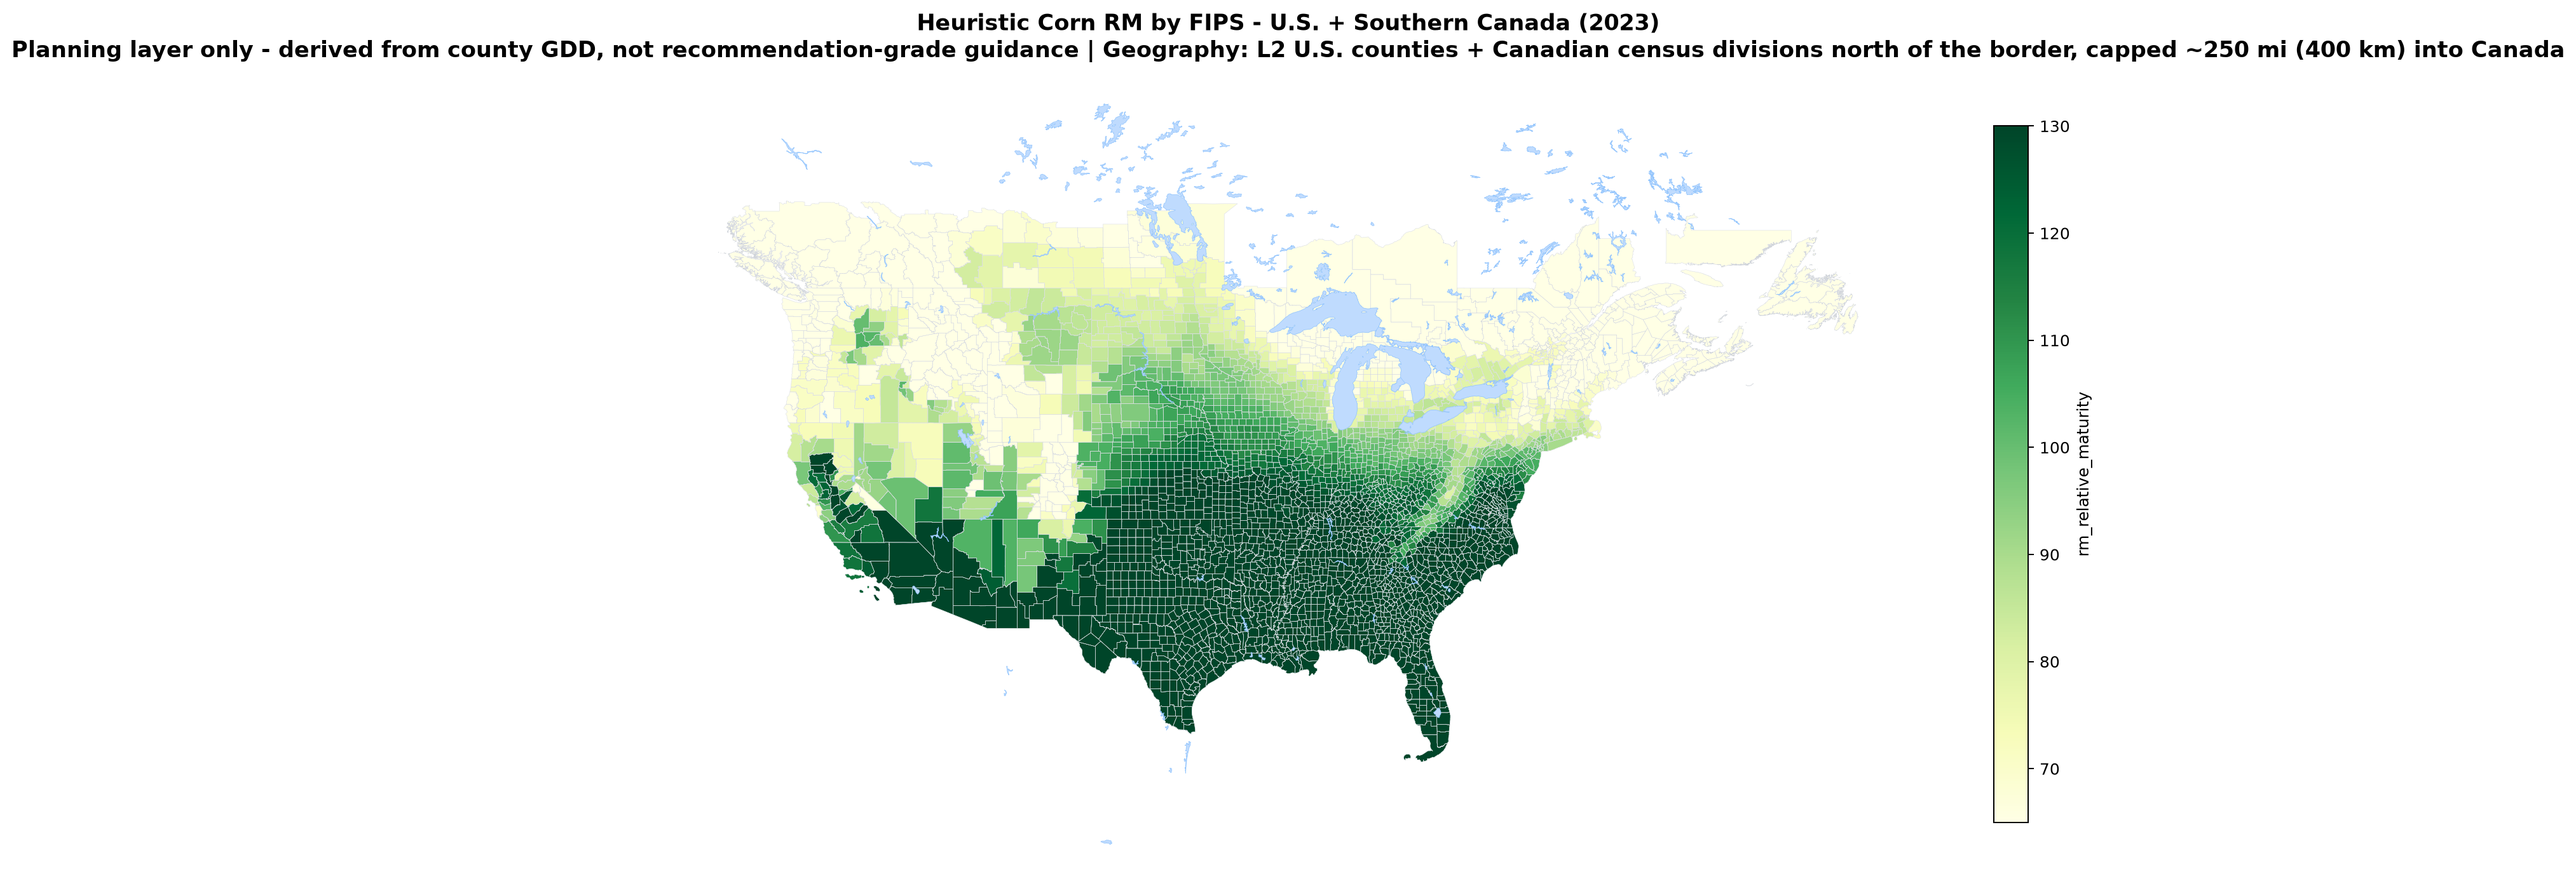
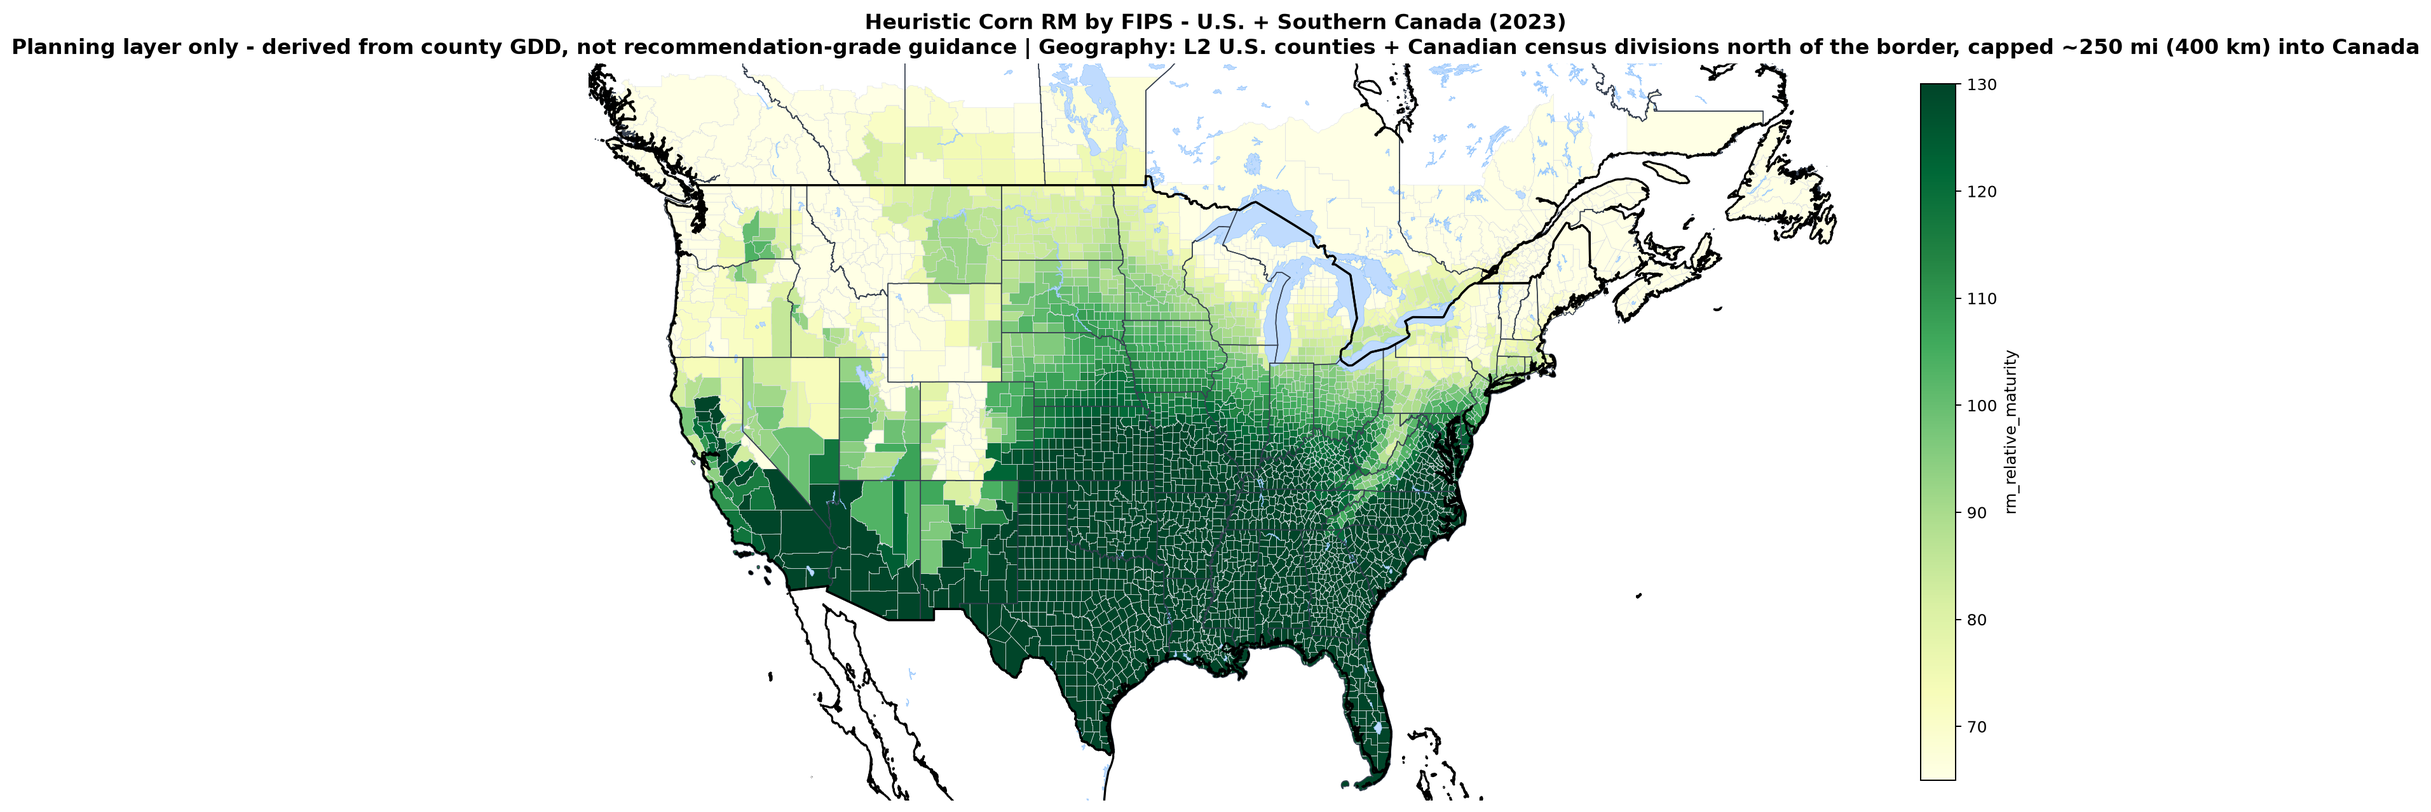
Canada polygon soil figure, Brazil global-floor stack, maturity borders, NDVI-complete poster
- generate_ssurgo_maps.py: prefer cached survey polygons (national equivalents
  in the same schema), categorical tab20 palette, dynamic survey-name titles
  -> Ontario Detailed Soil Survey renders as polygons, no USDA query
- generate_maturity_maps.py: L0 country border (black) + L1 state/province
  borders (grey) via .cx extent clip (GeoDataFrame.clip has no bbox kwarg),
  OGR_GEOJSON_MAX_OBJ_SIZE=0 for Natural Earth, title wrap to kill side gutters
- render_field_maps.py: terrain panel titles read selected_source from the DEM
  manifest instead of a hard-coded provider string
- staged: on-r1 ON-DSS polygon figure, br-r1 full stack + SoilGrids grid,
  re-rendered field maps (4), NA/Canada/US choropleths (borders),
  NDVI-complete field report, au Narrabri panels at 768 px (coverage hole closed)
- README: field stack gains Brazil (global-floor demo), soil tiers now
  US/CA polygons + AU atlas + global SoilGrids floor

Changed region(s): [[0.0, 0.0, 0.9956, 0.9758], [0.3422, 0.8233, 0.3733, 0.9758]]

diff --git a/my-farm-advisor/data-pipeline/src/scripts/reporting/generate_ssurgo_maps.py b/my-farm-advisor/data-pipeline/src/scripts/reporting/generate_ssurgo_maps.py
@@ -424,7 +424,10 @@ def _render_map(
     if not plot_source.empty:
         plot_target = plot_source.to_crs(epsg=3857) if use_basemap else plot_source
         max_class = int(pd.Series(plot_source["class_id"]).max()) if not plot_source.empty else 0
-        colors = plt.get_cmap("YlGn")(np.linspace(0.35, 0.85, max(1, max_class + 1)))
+        # Categorical palette: adjacent soil components must be tellable apart
+        # at a glance — a continuous green ramp fails the comparator test.
+        _cmap = plt.get_cmap("tab20")
+        colors = [_cmap(i % 20) for i in range(max(1, max_class + 1))]
         legend_elements: list[object] = [
             Line2D([0], [0], color="darkgreen", linewidth=3, label="Field Boundary")
         ]
@@ -436,7 +439,7 @@ def _render_map(
                 ax=ax,
                 color=colors[int(class_id)],
                 alpha=0.62,
-                edgecolor="#166534",
+                edgecolor="#1f2937",
                 linewidth=1.35,
             )
             legend_elements.append(
@@ -469,6 +472,19 @@ def _render_map(
     plt.close(fig)
 
 
+
+def _survey_label(ssurgo_gdf: gpd.GeoDataFrame) -> str:
+    """Name the survey the polygons actually came from (SSURGO, Ontario
+    Detailed Soil Survey, ...) instead of hard-coding SSURGO everywhere."""
+    if ssurgo_gdf is not None and "soil_source" in getattr(ssurgo_gdf, "columns", []):
+        vals = [v for v in ssurgo_gdf["soil_source"].dropna().unique() if isinstance(v, str)]
+        if vals:
+            v = vals[0]
+            if v == "usda-sda":
+                return "SSURGO"
+            return " ".join(w.capitalize() for w in v.replace("_", " ").replace("-", " ").split())
+    return "SSURGO"
+
 def render_ssurgo_component_map(
     field_gdf: gpd.GeoDataFrame,
     ssurgo_gdf: gpd.GeoDataFrame,
@@ -495,7 +511,7 @@ def render_ssurgo_component_map(
         field_gdf=field_gdf,
         plot_source=plot_source,
         output_path=output_path,
-        title=f"Field {field_short} - SSURGO Predominant Component\n({mukey_count} MUKEYs)",
+        title=f"Field {field_short} - {_survey_label(ssurgo_gdf)} Predominant Component\n({mukey_count} MUKEYs)",
         legend_title="Predominant component",
         label_builder=_label,
     )
@@ -572,7 +588,14 @@ def main() -> None:
 
         field_single = fields.iloc[[idx - 1]].copy()
 
-        field_ssurgo = get_ssurgo_polygons_with_soil_data(field_single, field_id)
+        # Cached survey polygons (SSURGO or a national equivalent ingested in
+        # the same schema, e.g. the Ontario Detailed Soil Survey) win over a
+        # fresh query — this is what lets Canada render without SDA.
+        cached = field_soil_polygon_path(_DEFAULT_GROWER, _DEFAULT_FARM, field_slug)
+        if cached.exists():
+            field_ssurgo = gpd.read_file(cached)
+        else:
+            field_ssurgo = get_ssurgo_polygons_with_soil_data(field_single, field_id)
 
         component_output = field_feature_path(
             _DEFAULT_GROWER, _DEFAULT_FARM, field_slug, "soil_component_map.png"

diff --git a/my-farm-advisor/data-pipeline/src/scripts/reporting/generate_maturity_maps.py b/my-farm-advisor/data-pipeline/src/scripts/reporting/generate_maturity_maps.py
@@ -71,7 +71,46 @@ def _render_map(
             lakes.plot(ax=ax, facecolor="#bfdbfe", edgecolor="#93c5fd", linewidth=0.3, zorder=3)
     except Exception:
         pass
-    ax.set_title(f"{title}\n{subtitle}", fontsize=14, fontweight="bold")
+    # Country (L0) and state/province (L1) borders, clipped to the plotted
+    # extent, so a multi-country choropleth says what is US and what is
+    # Canada without needing a basemap.
+    minx, miny, maxx, maxy = counties.total_bounds
+    vis_bbox = (minx - 1, miny - 1, maxx + 1, maxy + 1)
+    try:
+        from paths import shared_geoadmin_dir
+
+        # Natural Earth country polygons exceed pyogrio's default GeoJSON
+        # object size cap; lift it for these reads.
+        os.environ.setdefault("OGR_GEOJSON_MAX_OBJ_SIZE", "0")
+        gd_root = shared_geoadmin_dir()
+        for rel, lw, color in (
+            ("l1_states/states_usa.geojson", 0.6, "#374151"),
+            ("l1_states/states_canada.geojson", 0.6, "#374151"),
+            ("l0_countries/countries.geojson", 1.3, "#000000"),
+        ):
+            border_path = gd_root / rel
+            if not border_path.exists():
+                continue
+            _b = gpd.read_file(border_path).to_crs("EPSG:4326")
+            lines = _b.cx[vis_bbox[0]:vis_bbox[2], vis_bbox[1]:vis_bbox[3]]
+            if not lines.empty:
+                lines.boundary.plot(ax=ax, color=color, linewidth=lw, zorder=4)
+        ax.set_xlim(minx - 0.4, maxx + 0.4)
+        ax.set_ylim(miny - 0.4, maxy + 0.4)
+    except Exception:  # noqa: BLE001 — borders are cosmetic
+        pass
+    # Keep the title narrower than the map so the tight-bbox crop does not
+    # stretch the canvas into white side margins.
+    import textwrap
+
+    ax.set_title(
+        "\n".join(textwrap.wrap(title, 58)) + "\n" + subtitle,
+        fontsize=13,
+        fontweight="bold",
+    )
+    ax.tick_params(labelbottom=False, labelleft=False, bottom=False, left=False)
+    for s in ax.spines.values():
+        s.set_visible(False)
     ax.axis("off")
     fig.tight_layout()
     fig.savefig(output_path, dpi=180, bbox_inches="tight")

diff --git a/my-farm-advisor/data-pipeline/src/scripts/render_field_maps.py b/my-farm-advisor/data-pipeline/src/scripts/render_field_maps.py
@@ -123,6 +123,24 @@ def hillshade(dem: np.ndarray, dx: float = 30.0, az=315.0, alt=45.0) -> np.ndarr
     return np.clip(hs, 0, 1)
 
 
+
+def _dem_source_label(field_dir: Path) -> str:
+    """Name the DEM the resolver actually selected (recorded in the terrain
+    manifest) instead of a hard-coded provider string."""
+    try:
+        import json
+
+        manifest = field_dir / "manifests" / "dem_terrain_manifest.json"
+        if not manifest.exists():
+            return "DEM"
+        sel = json.loads(manifest.read_text()).get("selected_source") or {}
+        name = str(sel.get("source_name") or sel.get("adapter_name") or "DEM")
+        res = sel.get("resolution_m")
+        return f"{name} ({res:g} m)" if isinstance(res, (int, float)) else name
+    except Exception:  # noqa: BLE001 — cosmetic label
+        return "DEM"
+
+
 def panel_terrain(ax, field_dir: Path, boundary):
     dems = sorted(field_dir.glob("terrain/dem/dem_clipped.tif"))
     if not dems:
@@ -139,7 +157,7 @@ def panel_terrain(ax, field_dir: Path, boundary):
     cs = ax.contour(xs, ys, out, levels=levels, colors="0.25", linewidths=0.5, alpha=0.6)
     ax.clabel(cs, fmt="%.0f m", fontsize=6)
     draw_polys(ax, boundary)
-    ax.set_title("Terrain — hillshade + elevation contours (Copernicus DEM 30 m)", fontsize=8)
+    ax.set_title(f"Terrain — hillshade + elevation contours ({_dem_source_label(field_dir)})", fontsize=8)
     return True
 
 

diff --git a/README.md b/README.md
@@ -62,24 +62,25 @@ is the product; the download is just step one.
 ### Farm data stacks — terrain, soil, and crop type for one field boundary
 
 Rendered by [`render_field_maps.py`](my-farm-advisor/data-pipeline/src/scripts/render_field_maps.py)
-from a demo grower's runtime data: Copernicus DEM hillshade, national soil
-surveys, and per-year WorldCereal crop inference, co-registered to the field
-boundary (red).
+from a demo grower's runtime data: auto-resolved DEM hillshade (1 m LiDAR
+where the resolver finds it, global 30 m elsewhere — each panel names the
+source the manifest actually recorded), national soil surveys, and per-year
+WorldCereal crop inference, co-registered to the field boundary (red).
 
-| Iowa, US — 172 ha | Ontario, CA — 593 ha | Namoi Valley, AU — 44 ha pivot |
-| --- | --- | --- |
-| ![Iowa field stack](my-farm-advisor/data-pipeline/examples/field-maps/output/ia-r1_field_map.png) | ![Ontario field stack](my-farm-advisor/data-pipeline/examples/field-maps/output/on-r1_field_map.png) | ![Australia field stack](my-farm-advisor/data-pipeline/examples/field-maps/output/au-r4_field_map.png) |
-| SSURGO map units; terrain auto-resolved to USGS 3DEP **1 m LiDAR**; WorldCereal independently called **soybean** on a documented 2023 soy field | Ontario soil survey components (Brookston/Perth/Normandale); winter-window inference | Soil Atlas of Australia clay % (SLGA/ASF, real values); WorldCereal called **rapeseed on 93 %** of this irrigated pivot — near-complete field coverage at 384 px |
+| Iowa, US — 172 ha | Ontario, CA — 593 ha | Namoi Valley, AU — 44 ha pivot | Goiás, BR — 103 ha (global floor) |
+| --- | --- | --- | --- |
+| ![Iowa field stack](my-farm-advisor/data-pipeline/examples/field-maps/output/ia-r1_field_map.png) | ![Ontario field stack](my-farm-advisor/data-pipeline/examples/field-maps/output/on-r1_field_map.png) | ![Australia field stack](my-farm-advisor/data-pipeline/examples/field-maps/output/au-r4_field_map.png) | ![Brazil field stack](my-farm-advisor/data-pipeline/examples/field-maps/output/br-r1_field_map.png) |
+| SSURGO map units; terrain auto-resolved to USGS 3DEP **1 m LiDAR**; WorldCereal independently called **soybean** on a documented 2023 soy field | Ontario soil survey components (Brookston/Perth/Normandale); winter-window inference | Soil Atlas of Australia clay % (SLGA/ASF, real values); WorldCereal called **rapeseed on 93 %** of this irrigated pivot — near-complete field coverage at 384 px | No Brazilian fine-coverage source exists in the registry, so the resolver fell back to NASADEM 30 m + SoilGrids 250 m: the **global floor** demo — the pipeline still delivers the full stack; whole 103-ha field ingest cost 1.4 MB |
 
 ### Soil intelligence at three resolution tiers
 
 Same renderer, three provenance levels — survey polygons where they exist,
 national atlases where they do, and the global 250 m floor everywhere:
 
-| US — SSURGO survey polygons | Canada — SoilGrids global floor | Australia — national Soil Atlas |
-| --- | --- | --- |
-| ![SSURGO components](my-farm-advisor/data-pipeline/examples/soil-maps/output/ia-r1_ssurgo_component_map.png) | ![SoilGrids panels](my-farm-advisor/data-pipeline/examples/soil-maps/output/on-r1_soilgrids_maps.png) | ![AU Soil Atlas panels](my-farm-advisor/data-pipeline/examples/soil-maps/output/au-r3_soil_atlas_maps.png) |
-| 16 mapped soil components inside one boundary — names, MUKEYs, horizon tables behind every color | 7 properties + relief on a 3-column grid, field-mean annotated per panel (pH 6.8, CEC 21.2 cmol/kg) | vertisol reality check: 42.8 % clay at 0–5 cm, pH 6.6; unscaled bands labeled honestly as native units |
+| US — SSURGO survey polygons | Canada — Ontario Detailed Soil Survey (polygon) | Australia — national Soil Atlas | Global floor — SoilGrids 250 m (Brazil) |
+| --- | --- | --- | --- |
+| ![SSURGO components](my-farm-advisor/data-pipeline/examples/soil-maps/output/ia-r1_ssurgo_component_map.png) | ![Canada survey polygons](my-farm-advisor/data-pipeline/examples/soil-maps/output/on-r1_canada_survey_polygons.png) | ![AU Soil Atlas panels](my-farm-advisor/data-pipeline/examples/soil-maps/output/au-r3_soil_atlas_maps.png) | ![SoilGrids panels](my-farm-advisor/data-pipeline/examples/soil-maps/output/br-r1_soilgrids_maps.png) |
+| 16 mapped soil components inside one boundary — names, MUKEYs, horizon tables behind every color | The same polygon treatment where SSURGO doesn't reach: ON-DSS components (Brookston/Perth/Normandale) rendered from the cached national survey, no USDA query, dataset named honestly in the title | vertisol reality check: 42.8 % clay at 0–5 cm, pH 6.6; unscaled bands labeled honestly as native units | Cerrado field where no national layer exists: 6 properties + relief at 250 m (clay 32.2 %, pH 5.38) — the floor every country gets |
 
 ### Terrain derivatives — ready the moment the DEM lands
 
@@ -97,7 +98,7 @@ same 9-layer view for each demo field, masked to the boundary. Iowa is the
 | Corn relative maturity (model-derived) | Soybean MG (model-derived) |
 | --- | --- |
 | ![Corn RM North America](my-farm-advisor/data-pipeline/examples/maturity/output/corn_rm_northamerica_2023.png) | ![Soybean MG North America](my-farm-advisor/data-pipeline/examples/maturity/output/soybean_mg_northamerica_2023.png) |
-| County GDD from our POWER pipeline → RM surface; recomputed per year; subtitle states its own limits | Latitude + heat-unit heuristic; planning layer, not a prescription — the caption says so |
+| County GDD from our POWER pipeline → RM surface; recomputed per year; black country border + grey state/province lines drawn from the cached L0/L1 layers; subtitle states its own limits | Latitude + heat-unit heuristic; planning layer, not a prescription — the caption says so |
 
 Both maps are the admin-geometry demo at every level: **L0 countries, L1
 states/provinces, L2 counties and Canadian census divisions** feed the
